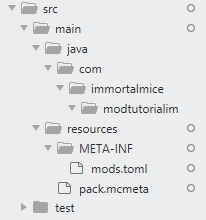
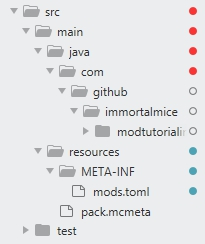
Fix Bugs
Fix versioning error
Fix group error

diff --git a/Code/src/main/java/com/github/immortalmice/modtutorialim/ModTutorialIM.java b/Code/src/main/java/com/github/immortalmice/modtutorialim/ModTutorialIM.java
@@ -6,7 +6,6 @@ import net.minecraftforge.fml.common.Mod;
 public class ModTutorialIM{
 	public static final String MODID = "modtutorialim";
     public static final String NAME = "Immortalmice's Mod Tutorial";
-    public static final String VERSION = "1.15.2-0.1.0";
 
     public ModTutorialIM(){
 
